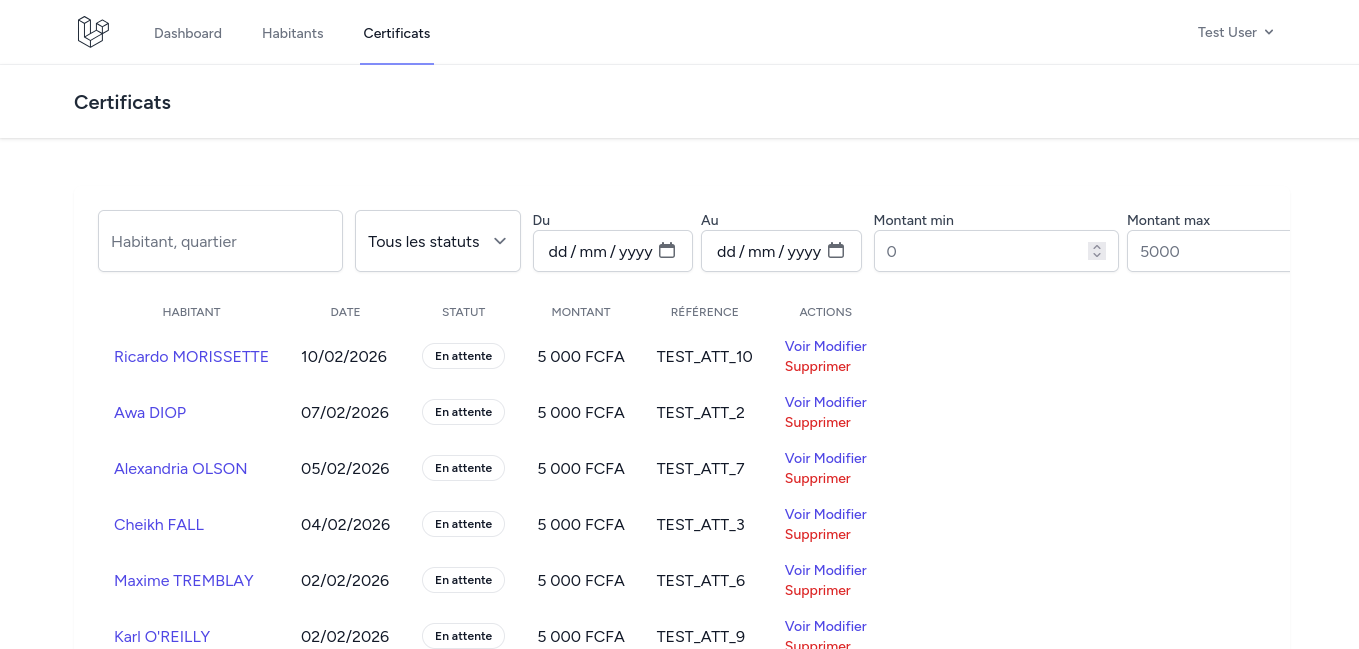
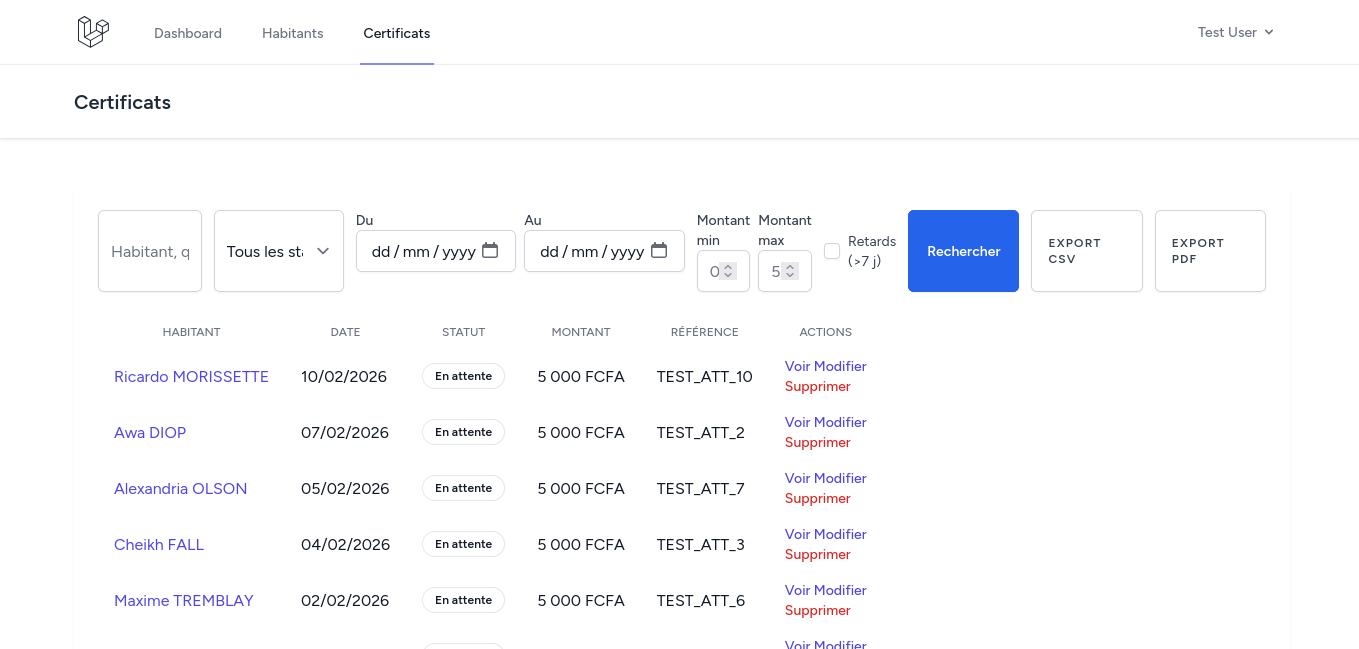
ajout de nouvelle images de l'interface

diff --git a/routes/web.php b/routes/web.php
@@ -22,8 +22,11 @@ Route::middleware('auth')->group(function () {
         Route::resource('habitants', HabitantController::class);
 
             // Certificats CRUD et recherche
-            Route::get('certificats', [CertificatController::class, 'index'])
-                ->name('certificats.index');
+        Route::get('certificats', [CertificatController::class, 'index'])
+            ->name('certificats.index');
+        // Export must be defined before param routes to avoid conflicts
+        Route::get('certificats/export', [CertificatController::class, 'export'])
+            ->name('certificats.export');
         Route::get('habitants/{habitant}/certificats/create', [CertificatController::class, 'create'])
             ->name('certificats.create');
         Route::post('habitants/{habitant}/certificats', [CertificatController::class, 'store'])
@@ -31,8 +34,6 @@ Route::middleware('auth')->group(function () {
 
         Route::get('certificats/{certificat}', [CertificatController::class, 'show'])
             ->name('certificats.show');
-        Route::get('certificats/export', [CertificatController::class, 'export'])
-            ->name('certificats.export');
             Route::get('certificats/{certificat}/edit', [CertificatController::class, 'edit'])
                 ->name('certificats.edit');
             Route::put('certificats/{certificat}', [CertificatController::class, 'update'])

diff --git a/resources/views/habitants/index.blade.php b/resources/views/habitants/index.blade.php
@@ -38,7 +38,7 @@
 
                         <a
                             href="{{ route('habitants.create') }}"
-                            class="inline-flex items-center justify-center px-4 py-2 bg-indigo-600 border border-indigo-600 rounded-md font-semibold text-xs text-white uppercase tracking-widest shadow-sm hover:bg-indigo-500 focus:outline-none focus:ring-2 focus:ring-indigo-400 focus:ring-offset-2"
+                            class="inline-flex items-center justify-center px-4 py-2 bg-indigo-600 border border-indigo-600 rounded-md font-semibold text-xs text-black uppercase tracking-widest shadow-sm hover:bg-indigo-500 focus:outline-none focus:ring-2 focus:ring-indigo-400 focus:ring-offset-2"
                             style="background-color:#2563eb;color:#ffffff;border:1px solid #2563eb;"
                         >
                             Nouvel habitant

diff --git a/app/Http/Controllers/CertificatController.php b/app/Http/Controllers/CertificatController.php
@@ -14,6 +14,7 @@ use Illuminate\Database\Eloquent\Builder;
 use Illuminate\Contracts\View\View;
 use Illuminate\Http\RedirectResponse;
 use Illuminate\Http\Request;
+use Symfony\Component\HttpFoundation\Response;
 use Symfony\Component\HttpFoundation\StreamedResponse;
 
 class CertificatController extends Controller
@@ -213,7 +214,7 @@ class CertificatController extends Controller
     /**
      * Export filtered certificats as CSV or PDF.
      */
-    public function export(Request $request): StreamedResponse
+    public function export(Request $request): Response
     {
         $format = strtolower((string) $request->query('format', 'csv'));
         $certificats = $this->filteredQuery($request)->with('habitant')->get();
